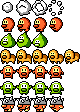
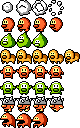
Another enemy

diff --git a/src/enemy.js b/src/enemy.js
@@ -377,3 +377,73 @@ export class SpikeyWalker extends Walker {
         this.spr.row = 6;
     }
 }
+
+
+export class Jumper extends Enemy {
+
+    constructor(x, y) {
+
+        super(x, y);
+
+        this.spr.setFrame(2, 0);
+
+        this.friction.y = 0.075;
+
+        this.target.x = 0.5;
+        this.target.y = 3;
+        this.center.y = -3;
+
+        this.colbox.x = 8;
+
+        this.speedSet = false;
+    }
+
+
+    // Logic
+    updateLogic(ev) {  }
+
+
+    checkPlayer(o) {
+
+        const BASE_SPEED = 0.5;
+
+        if (!this.speedSet) {
+
+            this.target.x = (o.pos.x < this.pos.x ? -1 : 1) * BASE_SPEED;
+            this.speed.x = this.target.x;
+            this.speedSet = true;
+        }
+    }
+
+
+    // Animate
+    animate(ev) {
+
+        const EPS = 0.33;
+
+        let frame = 1;
+        if (this.speed.y < -EPS)
+            frame = 0;
+        else if (this.speed.y > EPS)
+            frame = 2;
+
+        this.spr.setFrame(7, frame);
+    
+        this.flip = this.target.x < 0 ? Flip.None : Flip.Horizontal;
+    }
+
+
+    wallEvent(ev) {
+
+        this.target.x *= -1;
+        this.speed.x *= -1;
+    }
+
+
+    floorEvent(ev) {
+
+        const JUMP_HEIGHT = -1.75;
+
+        this.speed.y = JUMP_HEIGHT;
+    }
+}

diff --git a/src/stage.js b/src/stage.js
@@ -7,7 +7,7 @@
 
 import { negMod } from "./core/util.js";
 import { Coin, Heart } from "./collectable.js";
-import { Walker, Slime, Dog, ImpVertical, ImpHorizontal, SpikeyWalker } from "./enemy.js";
+import { Walker, Slime, Dog, ImpVertical, ImpHorizontal, SpikeyWalker, Jumper } from "./enemy.js";
 import { Vector2 } from "./core/vector.js";
 
 
@@ -163,9 +163,11 @@ export class Stage {
                 case 20:
                 case 21:
                 case 22:
+                case 23:
                     objm.addEnemy( 
                         [Walker, Slime, Dog, 
-                        ImpVertical, ImpHorizontal, SpikeyWalker] [t-17], 
+                        ImpVertical, ImpHorizontal, SpikeyWalker,
+                        Jumper] [t-17], 
                         x*16, y*16);
                     break;
 

diff --git a/src/player.js b/src/player.js
@@ -18,8 +18,8 @@ class Boomerang extends GameObject {
 
         super(16, 16);
 
-        this.hitbox.x = 8;
-        this.hitbox.y = 8;
+        this.hitbox.x = 12;
+        this.hitbox.y = 12;
 
         this.colbox.x = 4;
         this.colbox.y = 4;
